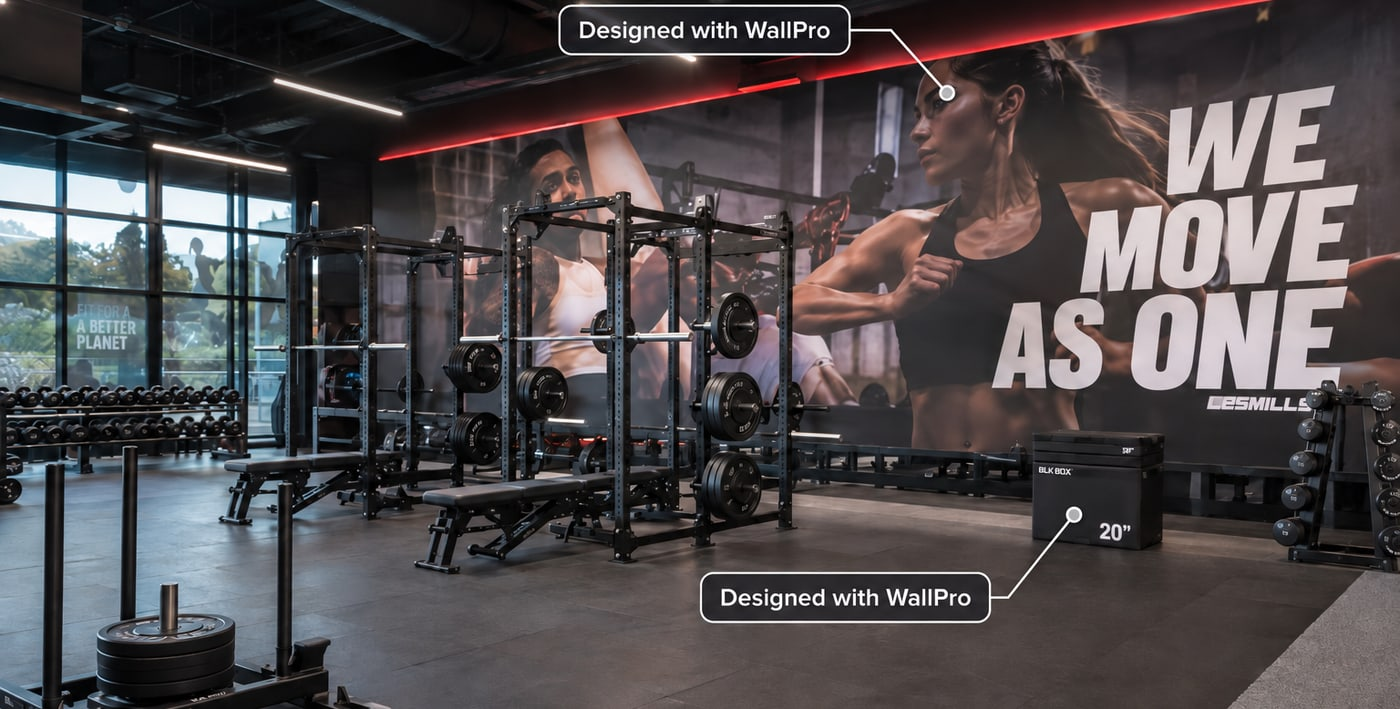
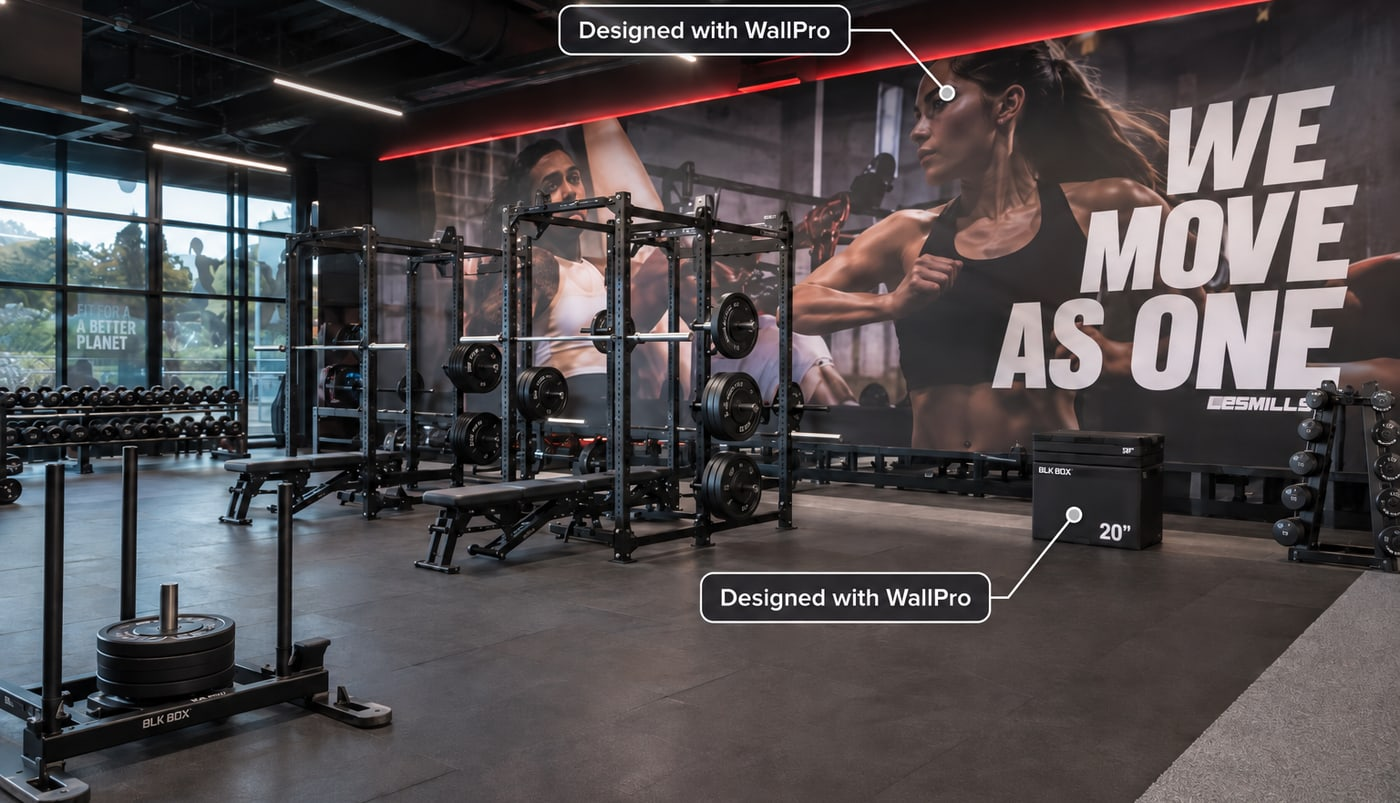
Trim per edge: clear the baked caption without squashing the room
Owner, 2026-09-15: "why did you squish them."

FIRST, WHAT DID NOT HAPPEN. Nothing was stretched. Verified against the
original: a 12% symmetric vertical trim on 1536x1024 gives 1.9743, the
shipped file was 1.9746 -- 0.0003 apart, so it was a pure crop and scale
with the aspect held. No pixel was squeezed.

WHAT DID HAPPEN is worse and simpler: I cut 24% of the height off. "Trim
them a bit" is not a quarter of the picture, and a room that short reads as
squashed even though every proportion is correct. That is a judgement error,
not a pipeline bug, and the arithmetic being right is not a defence.

THE REAL CONSTRAINT I WAS SOLVING THE WRONG WAY. The bare-wall frame has
"BEFORE" baked into its top corner, which collides with the band's own chip.
Clearing it symmetrically costs a quarter of the frame. Clearing it from the
TOP costs 12% and nothing else -- so --trim-top and --trim-bottom now
override the symmetric --trim per edge. 12% top, 2% bottom: the caption is
gone, the floor is kept, and 86% of the height survives instead of 76%.

Register is untouched by asymmetry. What has to match is the treatment of
the two HALVES, not the top against the bottom; both images take the
identical fractions, so the racks still line up under the wipe.

Canvas moves to 1400x803 for every proof and the band follows it, so
`contain` still shows each frame edge to edge with no letterbox.

247 app tests pass; typecheck clean; measured 438x250 in Chromium.
[…]

diff --git a/app/src/components/wallpro/WallProHeroProof.tsx b/app/src/components/wallpro/WallProHeroProof.tsx
@@ -121,7 +121,7 @@ export function WallProHeroProof({ proofs }: { proofs: WallProof[] }) {
            4:3 room both fit, and neither loses its edges to a crop the band
            chose. The ground is dark so the letterbox reads as a frame rather
            than as a loading bug, and the band keeps a 4:3 box so a portrait
-           frame cannot make the strip absurdly tall. The box is 1400x709
+           frame cannot make the strip absurdly tall. The box is 1400x803
            because that is the ONE canvas every proof is normalised to, so on
            desktop `contain` shows each frame edge to edge with no letterbox at
            all -- the band and the photographs are the same shape.
@@ -130,7 +130,7 @@ export function WallProHeroProof({ proofs }: { proofs: WallProof[] }) {
            edges; `contain` keeps the photograph intact and pads instead. For a
            before/after the photograph is the argument, so it wins. Both halves
            use the same box and the same fit, so they stay in register. */
-        className="relative h-52 w-full select-none overflow-hidden rounded-xl border border-slate-200 bg-slate-900 sm:h-64 lg:h-auto lg:aspect-[1400/709]"
+        className="relative h-52 w-full select-none overflow-hidden rounded-xl border border-slate-200 bg-slate-900 sm:h-64 lg:h-auto lg:aspect-[1400/803]"
         onPointerDown={e => { e.currentTarget.setPointerCapture(e.pointerId); setHeld(true); track(e.clientX); }}
         onPointerUp={() => setHeld(false)}
         onPointerMove={e => { if (e.buttons === 1) track(e.clientX); }}
